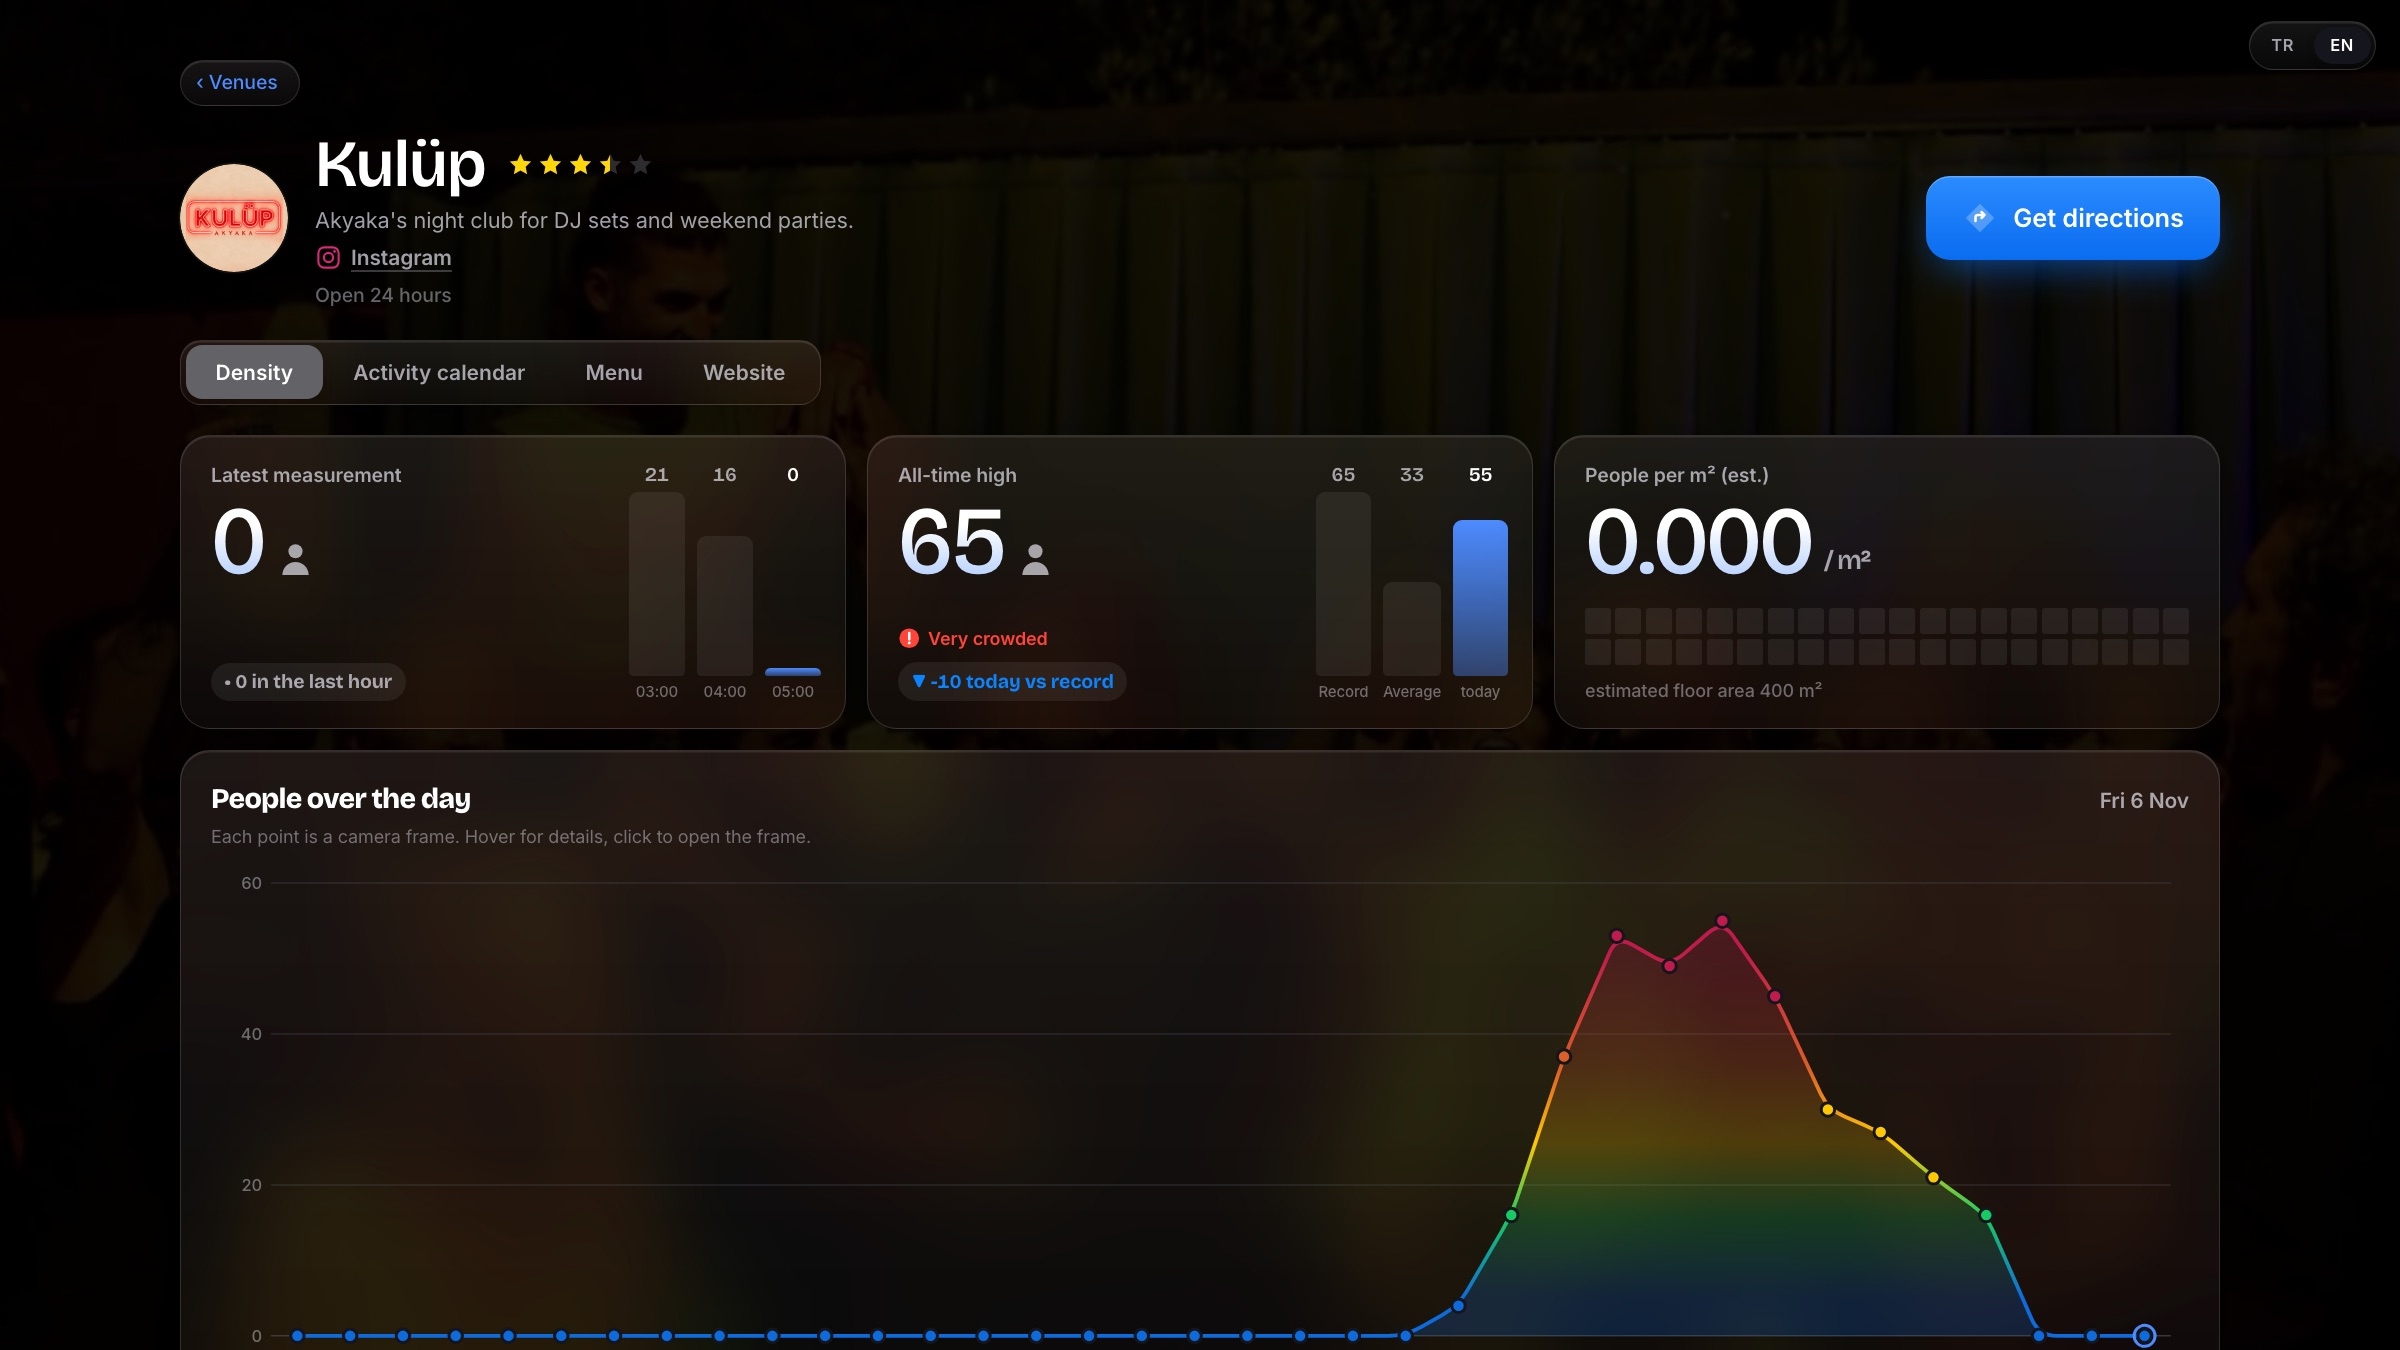
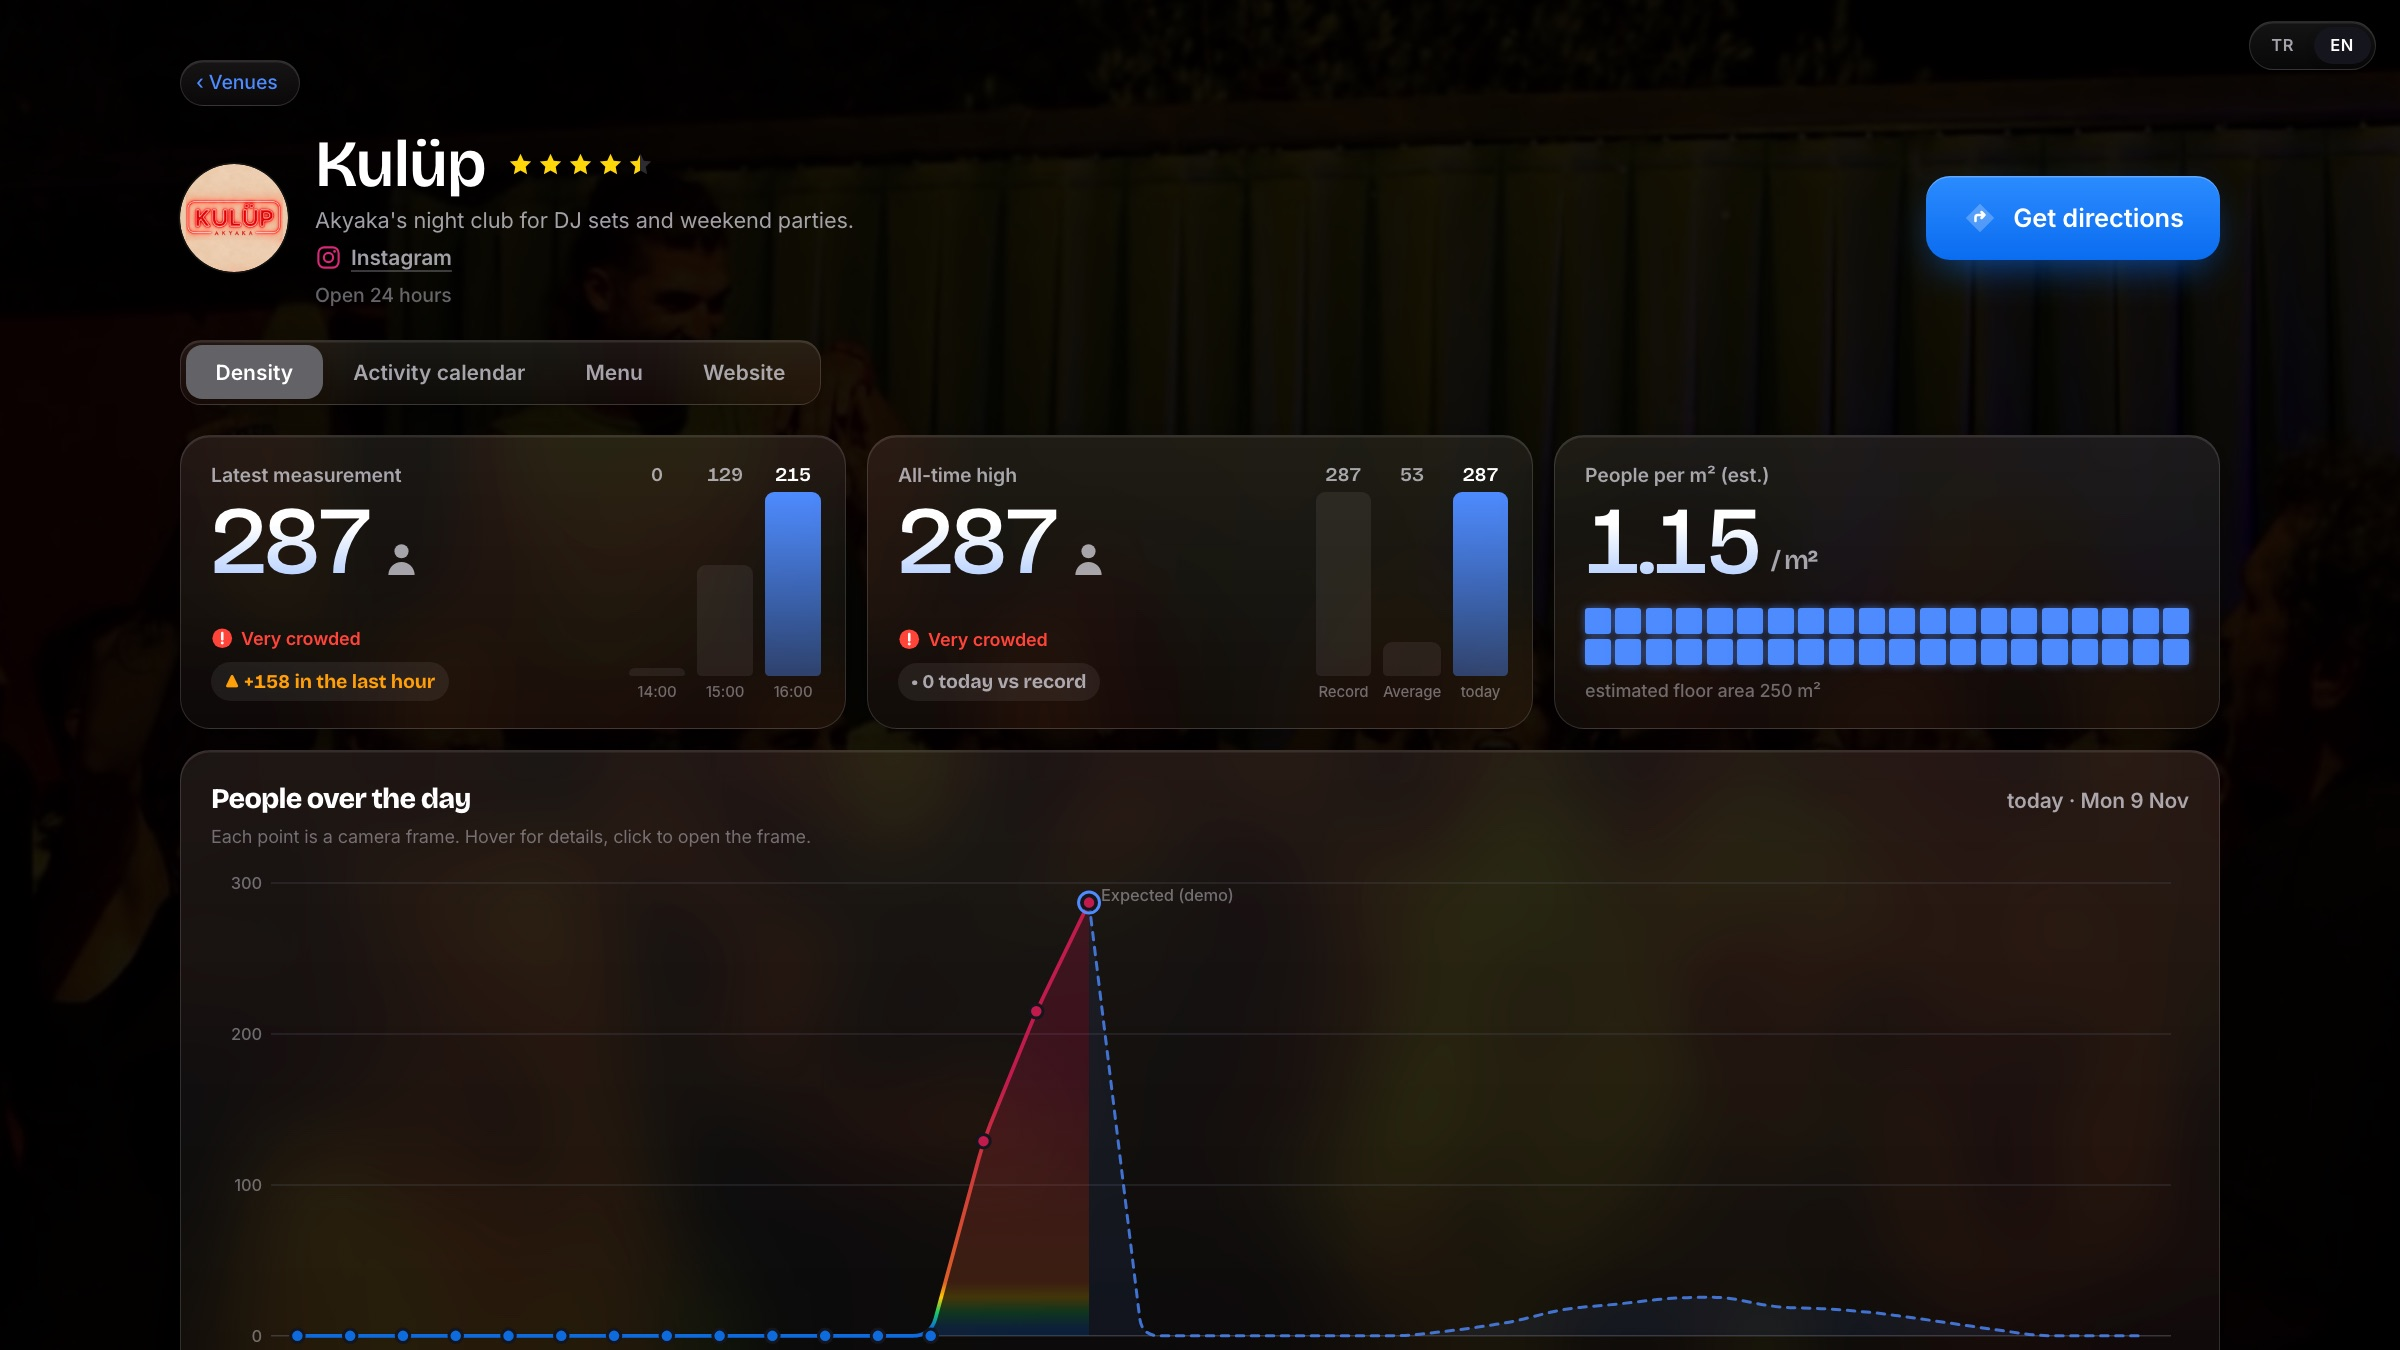
Update demo from venue-occupancy-mvp (ca024f3)

diff --git a/presentation-template/index.html b/presentation-template/index.html
@@ -264,7 +264,7 @@
         </div>
       </div>
       <div class="imac imac--low" data-shared="imac" aria-hidden="true">
-        <div class="imac-screen"><img src="assets/panel-kulup.jpg" alt="" width="2400" height="1350" decoding="async"></div>
+        <div class="imac-screen"><img src="assets/panel-kulup.jpg?v=2" alt="" width="2400" height="1350" decoding="async"></div>
         <div class="imac-chin"></div>
         <div class="imac-neck"></div>
         <div class="imac-foot"></div>
@@ -275,7 +275,7 @@
     <section class="slide slide--imac" data-flow="imac" aria-roledescription="slide" aria-label="Panel ekranı">
       <div class="heat" aria-hidden="true"><i class="h1"></i><i class="h2"></i><i class="h3"></i></div>
       <div class="imac imac--high" data-shared="imac" aria-hidden="true">
-        <div class="imac-screen"><img src="assets/panel-kulup.jpg" alt="" width="2400" height="1350" decoding="async"></div>
+        <div class="imac-screen"><img src="assets/panel-kulup.jpg?v=2" alt="" width="2400" height="1350" decoding="async"></div>
         <div class="imac-chin"></div>
         <div class="imac-neck"></div>
         <div class="imac-foot"></div>
